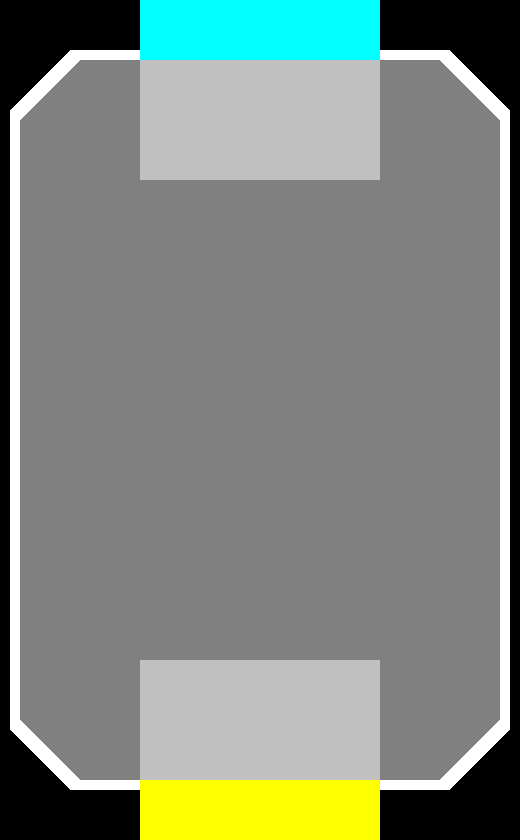
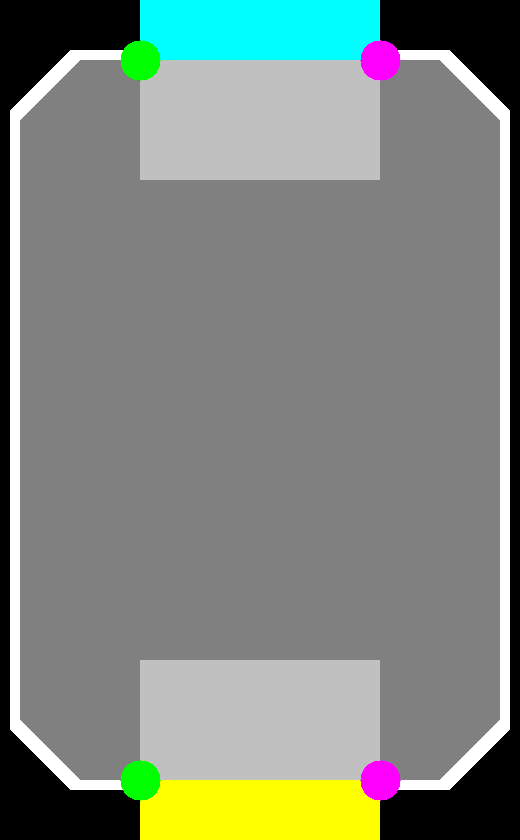
added colored posts to field

diff --git a/tam_library_field.py b/tam_library_field.py
@@ -2,14 +2,22 @@
 
 import numpy as np
 import cv2
-from settings_run import PIXELS_PER_INCH, CAMERA_CAPTURE_X, CAMERA_CAPTURE_Y
-from tam_library_classes import Rectangle
+from settings_run import PIXELS_PER_INCH, CAMERA_CAPTURE_X, CAMERA_CAPTURE_Y, GOALPOST_COLOR_EAST, GOALPOST_COLOR_WEST, GOALPOST_RADIUS
+from tam_library_classes import Rectangle, Point
 from tam_library_colors import WHITE, BLACK, GRAY, LIGHT_GRAY, YELLOW, CYAN
 
+
+
+def convert_to_px(inches: float) -> int:
+    """Convert inches to pixels using the global scale factor."""
+    return int(round(inches * PIXELS_PER_INCH))
+
+
+
 # object consts
-RADIUS_ROBOT = int(14 * PIXELS_PER_INCH / 2)
-RADIUS_BALL = int(7 * PIXELS_PER_INCH / 2)
-RADIUS_TENNIS_BALL = int(2.7 * PIXELS_PER_INCH / 2)
+RADIUS_ROBOT = convert_to_px(14/2)
+RADIUS_BALL = convert_to_px(7/2)
+RADIUS_TENNIS_BALL = convert_to_px(2.7/2)
 
 # screen consts
 SCREEN_CENTER_X = int(CAMERA_CAPTURE_X /2)
@@ -46,12 +54,6 @@ goalbox_center_top_in = (0, 60)
 goalbox_center_bot_in = (0, -60)
 
 
-
-
-
-def convert_to_px(inches: float) -> int:
-    """Convert inches to pixels using the global scale factor."""
-    return int(round(inches * PIXELS_PER_INCH))
 
 
 
@@ -206,6 +208,7 @@ def draw_empty_field(
     is_show_image: bool = False,
     draw_centerpoints: bool = False,
     just_black: bool = False,
+    save_image: bool = True,
 ) -> np.ndarray:
 
     frame: np.ndarray = np.zeros(
@@ -294,8 +297,61 @@ def draw_empty_field(
     )
 
 
-    # draw the hats
-    
+
+
+
+    # draw the goalpost hats
+
+    goalpost_left_offset = field_center_px_x - int(goal_net_px_x/2)
+    goalpost_top_offset = goal_net_px_y
+
+    goalbox_right_offset = total_window_px_x - goalpost_left_offset
+    goalbox_bottom_offset = total_window_px_y - goalpost_top_offset
+
+
+    GOALPOST_LEFT_TOP = Point(goalpost_left_offset, goalpost_top_offset)
+    GOALPOST_LEFT_BOTTOM = Point(goalpost_left_offset, goalbox_bottom_offset)
+    GOALBOX_RIGHT_TOP = Point(goalbox_right_offset, goalpost_top_offset)
+    GOALBOX_RIGHT_BOTTOM = Point(goalbox_right_offset, goalbox_bottom_offset)
+
+
+    # left top
+    frame = cv2.circle(
+        img= frame,
+        center= (GOALPOST_LEFT_TOP.x, GOALPOST_LEFT_TOP.y),
+        color= GOALPOST_COLOR_EAST,
+        radius= GOALPOST_RADIUS,
+        thickness= -1,
+    )
+
+    # left bottom
+    frame = cv2.circle(
+        img= frame,
+        center= (GOALPOST_LEFT_BOTTOM.x, GOALPOST_LEFT_BOTTOM.y),
+        color= GOALPOST_COLOR_EAST,
+        radius= GOALPOST_RADIUS,
+        thickness= -1,
+    )
+
+    # right top
+    frame = cv2.circle(
+        img= frame,
+        center= (GOALBOX_RIGHT_TOP.x, GOALBOX_RIGHT_TOP.y),
+        color= GOALPOST_COLOR_WEST,
+        radius= GOALPOST_RADIUS,
+        thickness= -1,
+    )
+
+    # right bottom
+    frame = cv2.circle(
+        img= frame,
+        center= (GOALBOX_RIGHT_BOTTOM.x, GOALBOX_RIGHT_BOTTOM.y),
+        color= GOALPOST_COLOR_WEST,
+        radius= GOALPOST_RADIUS,
+        thickness= -1,
+    )
+
+
 
 
     if draw_centerpoints:
@@ -325,7 +381,9 @@ def draw_empty_field(
         cv2.waitKey(0)
         cv2.destroyAllWindows()
 
-    cv2.imwrite("empty_field.png", frame)
+    if save_image:
+        cv2.imwrite("empty_field.png", frame)
+
     return frame
 
 
@@ -357,3 +415,7 @@ def convert_in_point_to_screen(point) -> tuple[int, int]:
 goalbox_center_top_px = convert_in_point_to_screen(point=goalbox_center_top_in)
 goalbox_center_bot_px = convert_in_point_to_screen(point=goalbox_center_bot_in)
 center_field_px = convert_in_point_to_screen(point=(0, 0))
+
+
+if __name__ == "__main__":
+    draw_empty_field(save_image= True, is_show_image=False)
